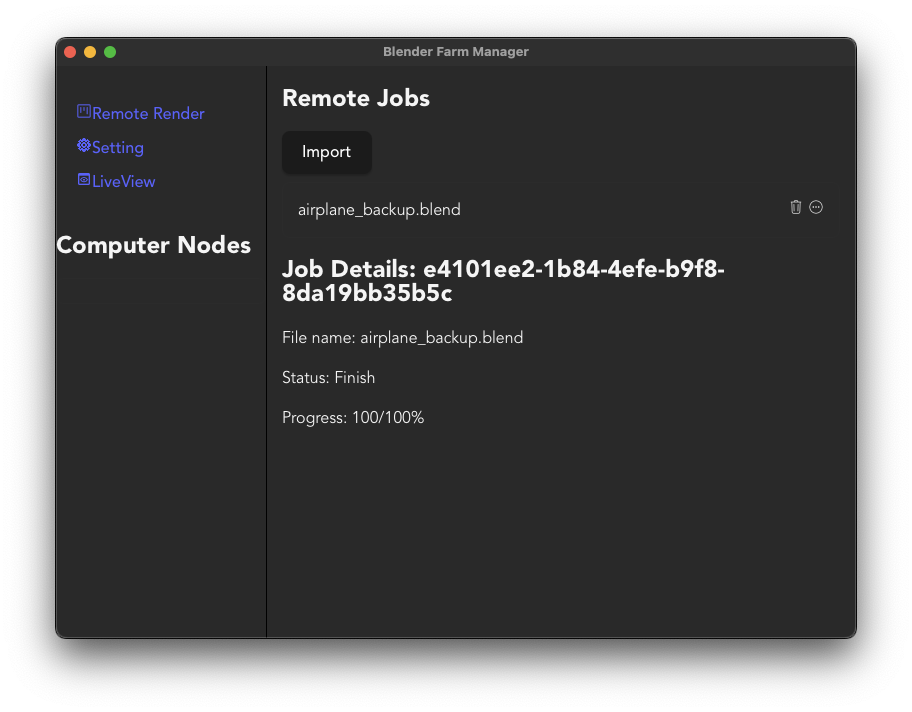
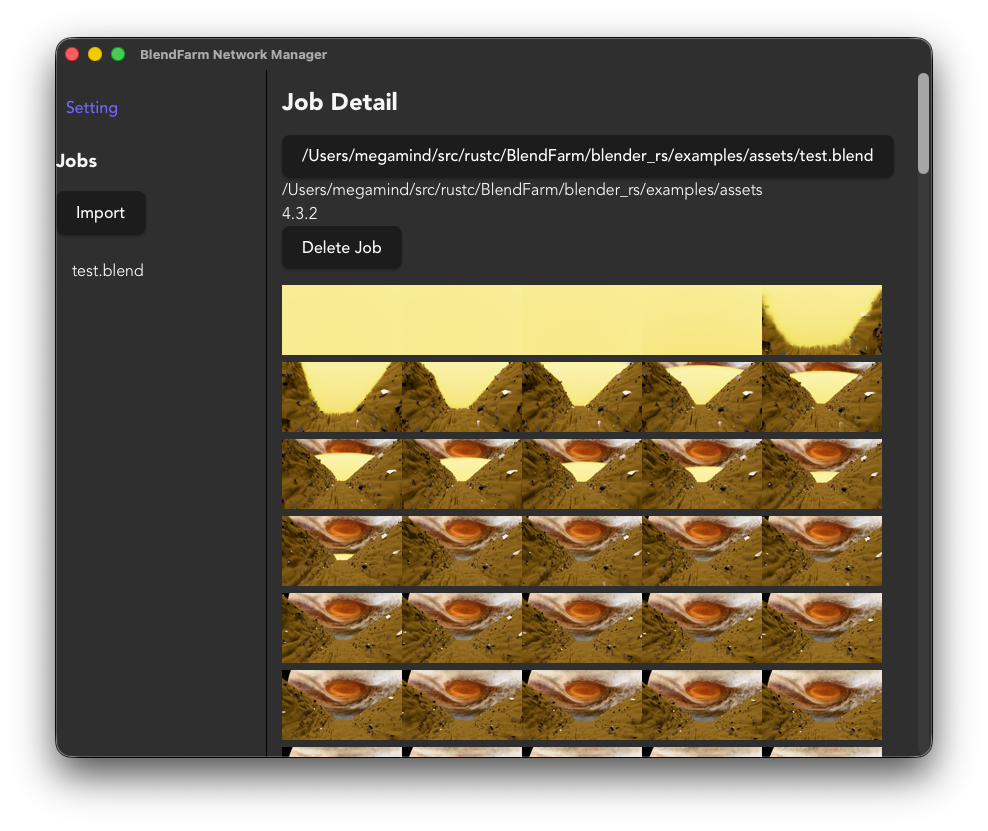
Update obsidian

diff --git a/obsidian/blendfarm/Bugs/Program cannot discover itself on the same network.md b/obsidian/blendfarm/Bugs/Program cannot discover itself on the same network.md
@@ -1,0 +1,5 @@
+If the wifi connection is disabled and there are no other network bridge/adapter, this program cannot identify itself. 
+
+Expected behaviour - When starting up both manager and client (order does not matter) - The program should be able to establish connection while in offline mode. It shouldn't be able to peer out internet connection, but it should simply invoke the job when resources are available locally. 
+
+Actual behaviour - The program continues to fail to send message out stating "NoPeersSubscribedToTopic" and unable to discover each other node in offline mode. Both manager and client fail to discover each other, despite listening on correct address and port. (No loopback?)

diff --git a/obsidian/blendfarm/Bugs/Deleting Blender from UI cause app to crash..md b/obsidian/blendfarm/Bugs/Deleting Blender from UI cause app to crash..md
@@ -1,2 +1,6 @@
 Seems like the code was not implemented to delete local content of blender file. 
 We should provide a dialog asking user to disconnect blender link or delete local content where blender is store/installed.
+
+Expected behaviour - when user deletes blender from the settings.rs, it should delete the blender content from the local machine and clear the row entry from settings page (Refresh/update?).
+
+Actual behaviour - Program will crashed on macos - we need to verify that the path is correct and not linked to the executable inside appbundle

diff --git a/obsidian/blendfarm/Bugs/Unit test fail - symbol _EMBED_INFO_PLIST already defined.md b/obsidian/blendfarm/Bugs/Unit test fail - symbol _EMBED_INFO_PLIST already defined.md
@@ -1,5 +1,9 @@
 Currently unit test fails when generating a new context. I am not sure why I receied this error message? I'm on a airplane with no wifi or internet connection whatsoever, so this makes troubleshooting a bit difficult to perform while in air. 
 
+Expected behaviour - Should be able to run unit test and return result.
+
+Actual behaviour - unable to run unit test as the compiler complains about symbole embed_info_plist is already defined.
+
 **error****: symbol `_EMBED_INFO_PLIST` is already defined**
 
    **-->** src/routes/job.rs:301:23

diff --git a/obsidian/blendfarm/Bugs/Unable to discover localhost with no internet connection is established or provided..md b/obsidian/blendfarm/Bugs/Unable to discover localhost with no internet connection is established or provided..md
@@ -1,0 +1,7 @@
+Currently in the offline mode (Airplane mode/wifi turned off/no ethernet adapter/etc), having both manager and client will not discover itself. 
+
+Todo - contact the community or research online on how to achieve loopback rules for the firewall? I thought it was possible to communicate through a separate channel?
+
+Expected behavior, Both manager and client should discover itself and begin communication within 0.0.0.0 address
+
+Actual behavior: Client and manager unable to find each other.

diff --git a/obsidian/blendfarm/Task/TODO.md b/obsidian/blendfarm/Task/TODO.md
@@ -6,3 +6,4 @@ Node - display node activity
 Update pages and image to reflect new UI layout design
 
 Currently the manager can send the job to the client and can successfully run the run on the client. However the client isn't sending the job info to the manager machine. The job completes, with render details information stored in database, but there's no calling to fetch the image to the host machine or send information about the node status/completion of the job. 
+

diff --git a/obsidian/blendfarm/Bugs/Render not saved to database.md b/obsidian/blendfarm/Bugs/Render not saved to database.md
@@ -1,0 +1,3 @@
+Expected behaviour - Whenever client node completes a render image, before broadcasting out to the network for status update, a new record is appended to database containing information related to the job task. This information should be persistent across app lifespan.
+
+Actual Behaviour - No data is saved to the database.

diff --git a/obsidian/blendfarm/Bugs/Node identification not store in database.md b/obsidian/blendfarm/Bugs/Node identification not store in database.md
@@ -1,0 +1,3 @@
+Expected behaviour - when a client becomes available and connected to the manager, a new record is added to the database containing computer information in JSON format.
+
+Actual behaviour - no record is stored when a node is discovered and established.
